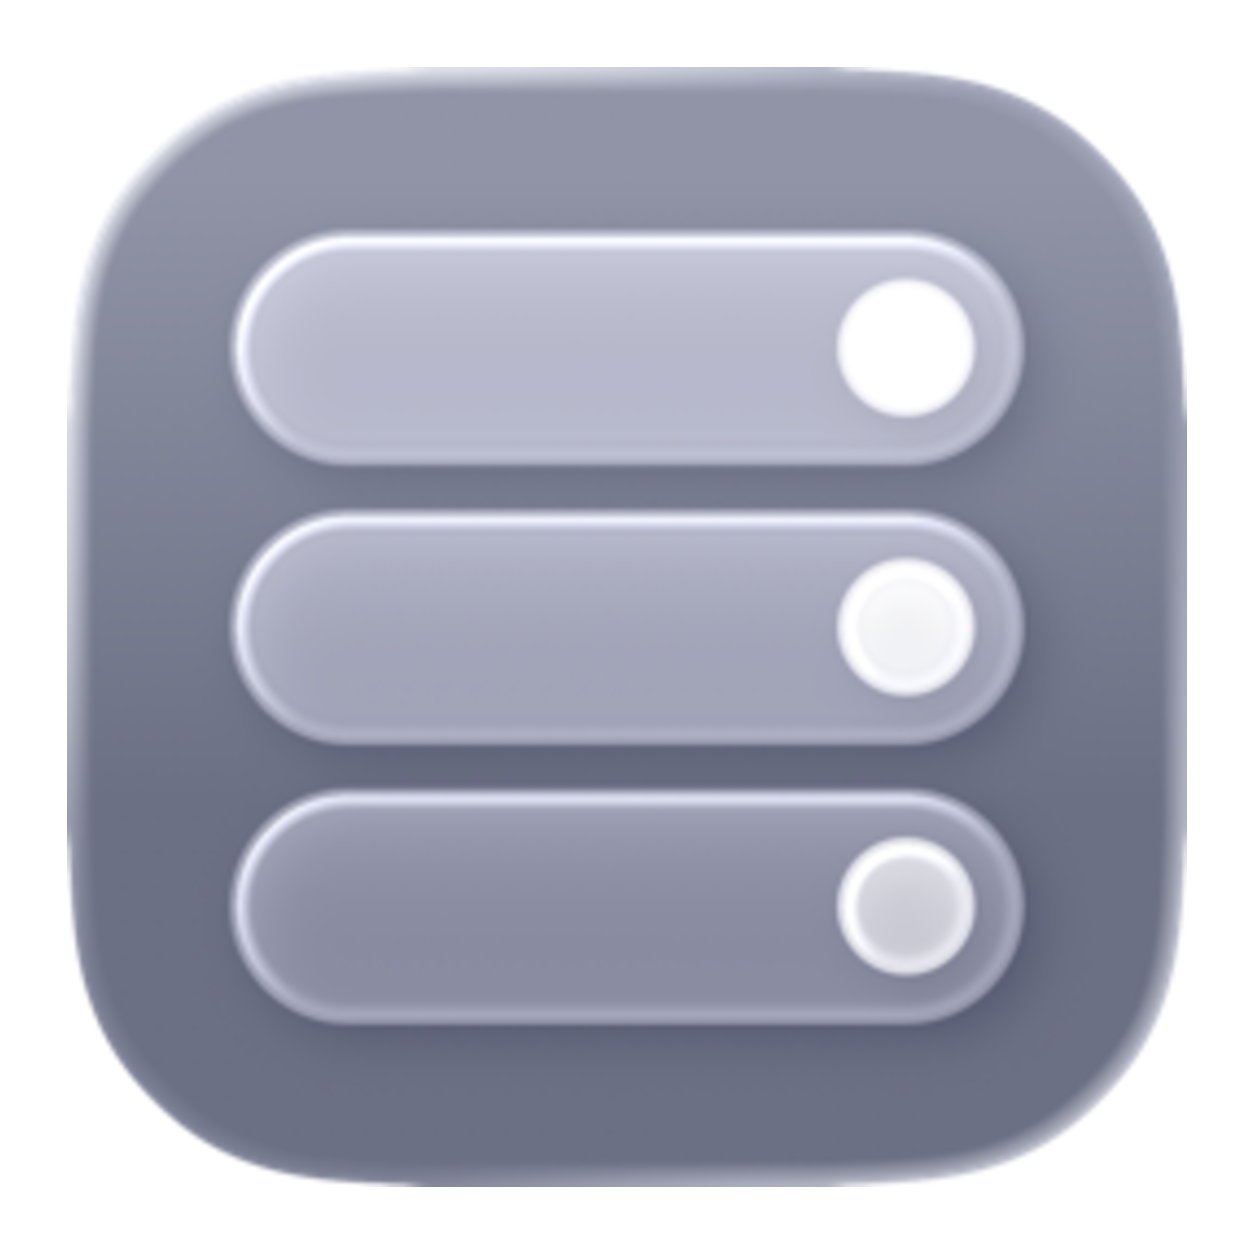
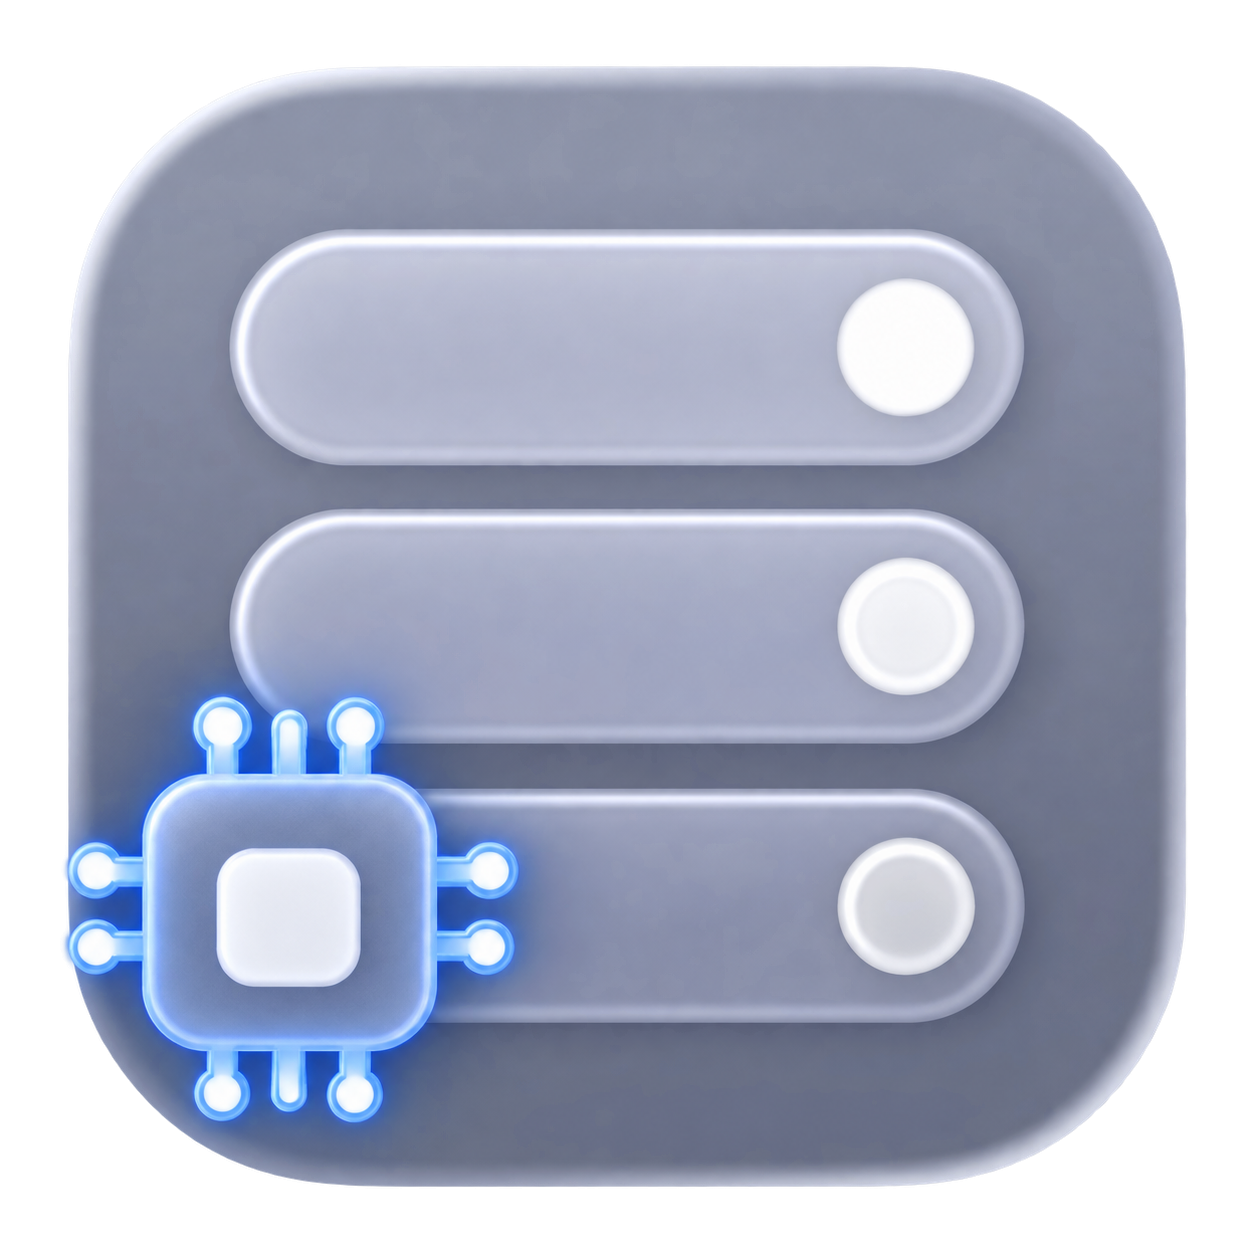
docs: distinguish runtime branding (#100)

diff --git a/README.md b/README.md
@@ -2,11 +2,12 @@
 
 <!-- markdownlint-disable MD013 MD033 -->
 <p>
-  <img align="left" hspace="20" src="assets/containerization-icon.png" width="147" alt="Containerization icon: the standard three-row container service panel" />
+  <img align="left" hspace="20" src="assets/containerization-icon.png" width="147" alt="Containerization icon: a frosted microchip overlapping the standard three-row container service panel" />
   <a href="https://github.com/stephenlclarke/containerization/actions/workflows/containerization-build.yml?query=branch%3Amain"><img alt="CI" src="https://github.com/stephenlclarke/containerization/actions/workflows/containerization-build.yml/badge.svg?branch=main" /></a>
   <a href="https://github.com/stephenlclarke/containerization/actions/workflows/codeql.yml?query=branch%3Amain"><img alt="CodeQL" src="https://github.com/stephenlclarke/containerization/actions/workflows/codeql.yml/badge.svg?branch=main" /></a>
   <a href="https://github.com/stephenlclarke/containerization/actions/workflows/docs-release.yaml?query=branch%3Amain"><img alt="Documentation" src="https://github.com/stephenlclarke/containerization/actions/workflows/docs-release.yaml/badge.svg?branch=main" /></a>
   <a href="https://github.com/stephenlclarke/containerization/actions/workflows/release.yml?query=branch%3Amain"><img alt="Releases" src="https://github.com/stephenlclarke/containerization/actions/workflows/release.yml/badge.svg?branch=main" /></a>
+  <a href="https://github.com/stephenlclarke/containerization/actions/workflows/sonar.yml?query=branch%3Amain"><img alt="SonarQube" src="https://github.com/stephenlclarke/containerization/actions/workflows/sonar.yml/badge.svg?branch=main" /></a>
   <a href="https://sonarcloud.io/summary/new_code?id=stephenlclarke_containerization"><img alt="Quality Gate Status" src="https://sonarcloud.io/api/project_badges/measure?project=stephenlclarke_containerization&amp;metric=alert_status" /></a>
   <a href="https://sonarcloud.io/summary/new_code?id=stephenlclarke_containerization"><img alt="Coverage" src="https://sonarcloud.io/api/project_badges/measure?project=stephenlclarke_containerization&amp;metric=coverage" /></a>
   <a href="https://sonarcloud.io/summary/new_code?id=stephenlclarke_containerization"><img alt="Bugs" src="https://sonarcloud.io/api/project_badges/measure?project=stephenlclarke_containerization&amp;metric=bugs" /></a>
